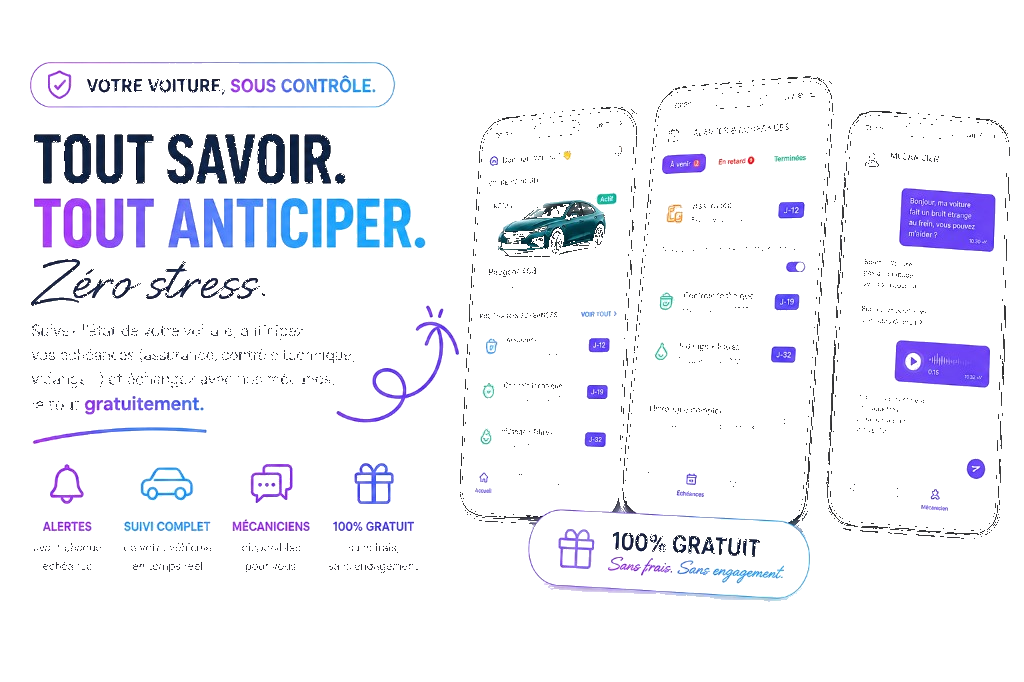
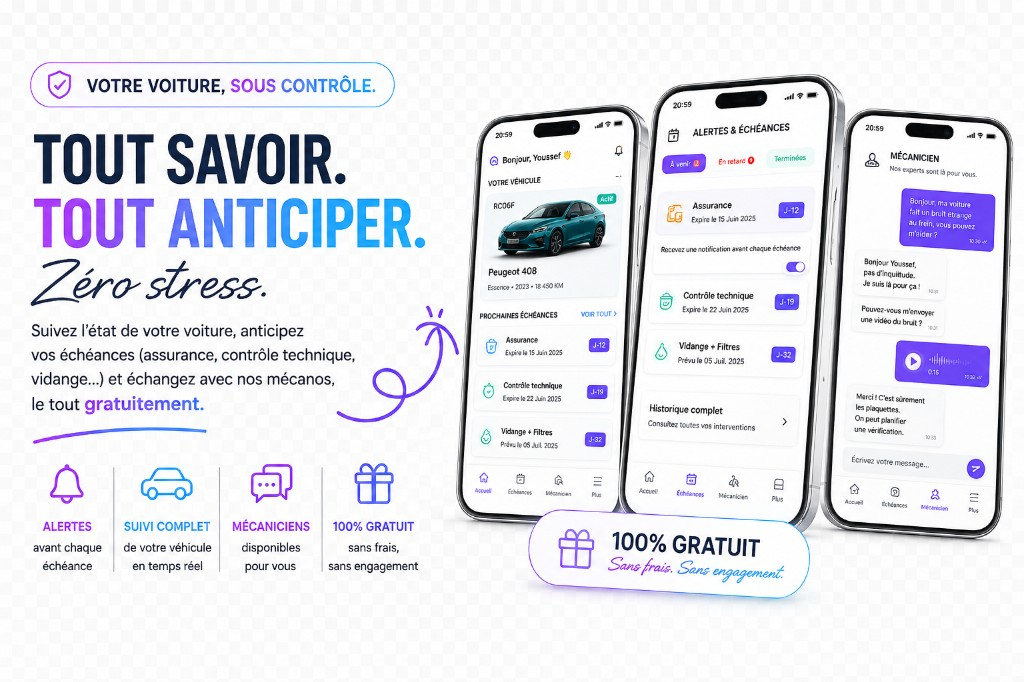
fix(home): use original garage PNGs as-is, no bg stripping

diff --git a/client/src/components/GarageFeatureShowcase.jsx b/client/src/components/GarageFeatureShowcase.jsx
@@ -1,6 +1,6 @@
 import { useTheme } from "../context/ThemeContext";
 
-/** My Garage — mobile banner only (desktop uses text in Home2). */
+/** My Garage — mobile banner only; original PNG, no processing. */
 export default function GarageFeatureShowcase({ className = "" }) {
   const { dark } = useTheme();
 

diff --git a/client/src/pages/Home2.jsx b/client/src/pages/Home2.jsx
@@ -1253,8 +1253,6 @@ img{display:block;max-width:100%;}a{text-decoration:none;}
   display:block;width:100%;height:auto;
   pointer-events:none;user-select:none;
 }
-.hx-gfeat-visual--light .hx-gfeat-img{mix-blend-mode:normal;}
-.hx-gfeat-visual--dark .hx-gfeat-img{mix-blend-mode:screen;}
 .hx-gfeat-actions{
   display:flex;justify-content:center;
   margin-top:28px;